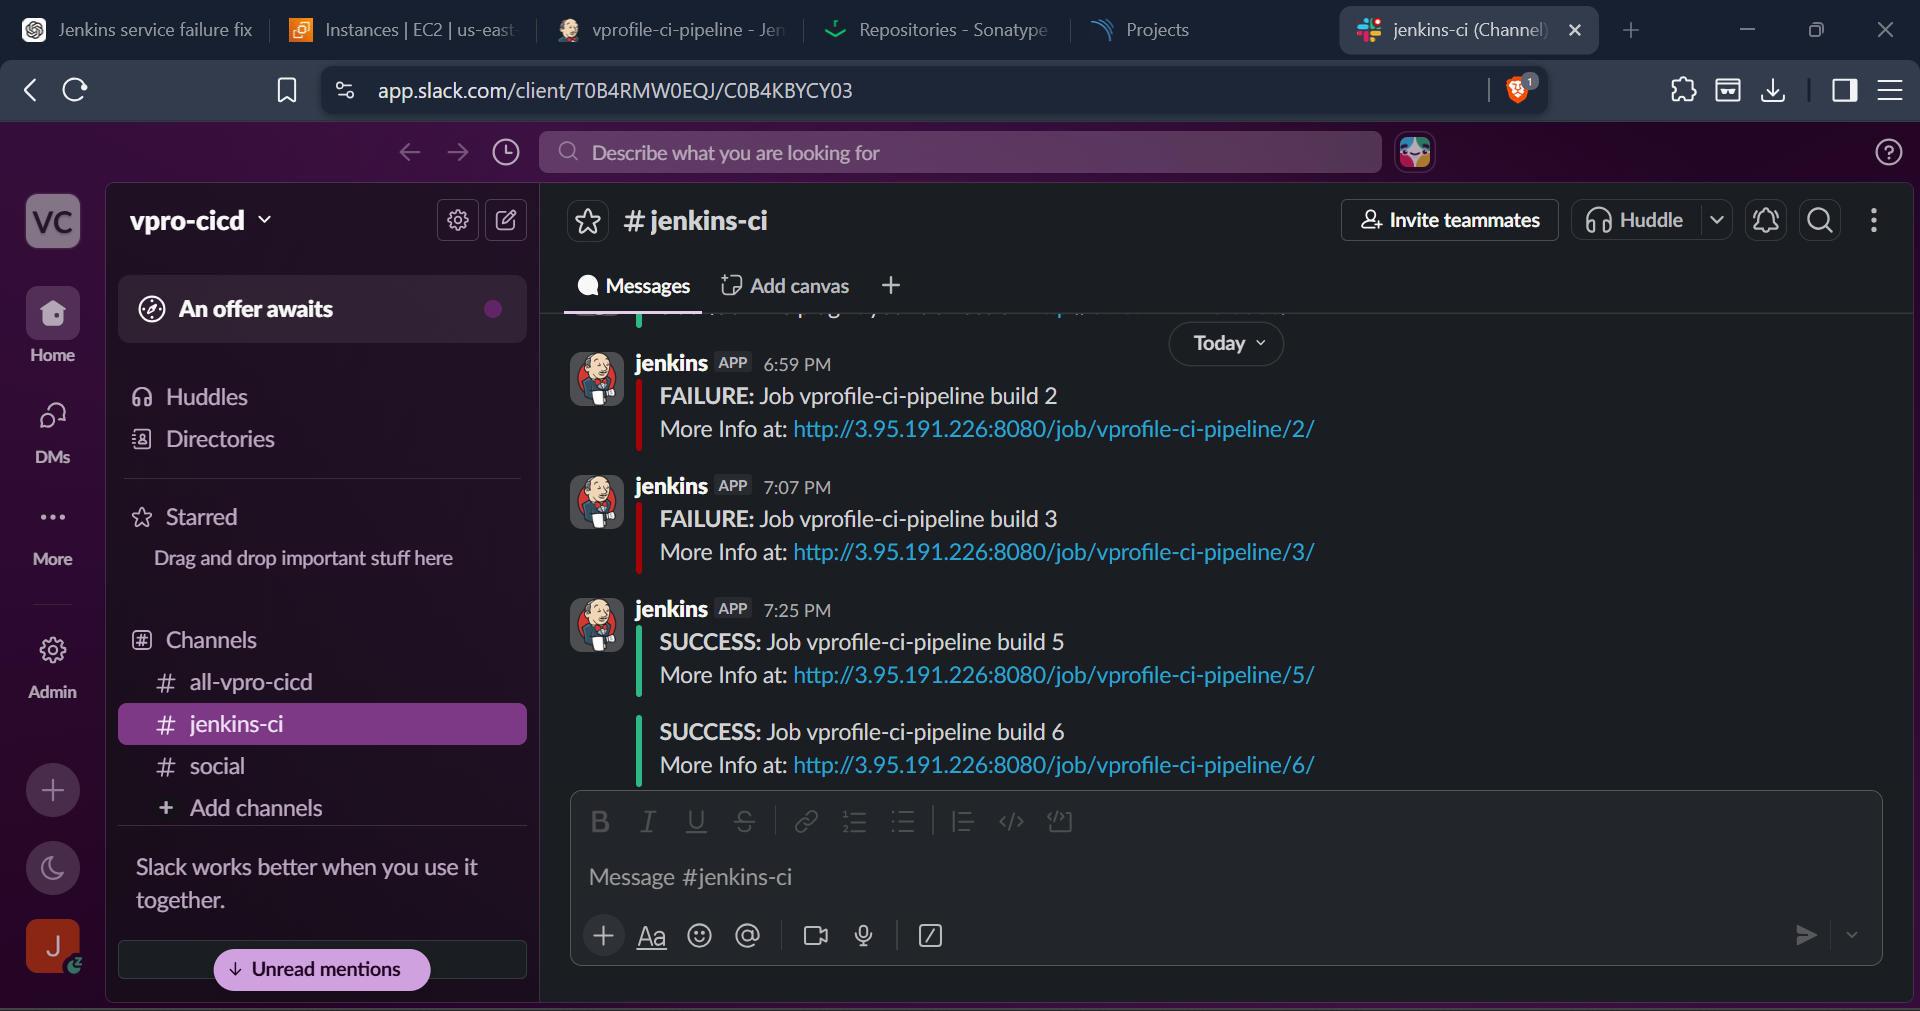
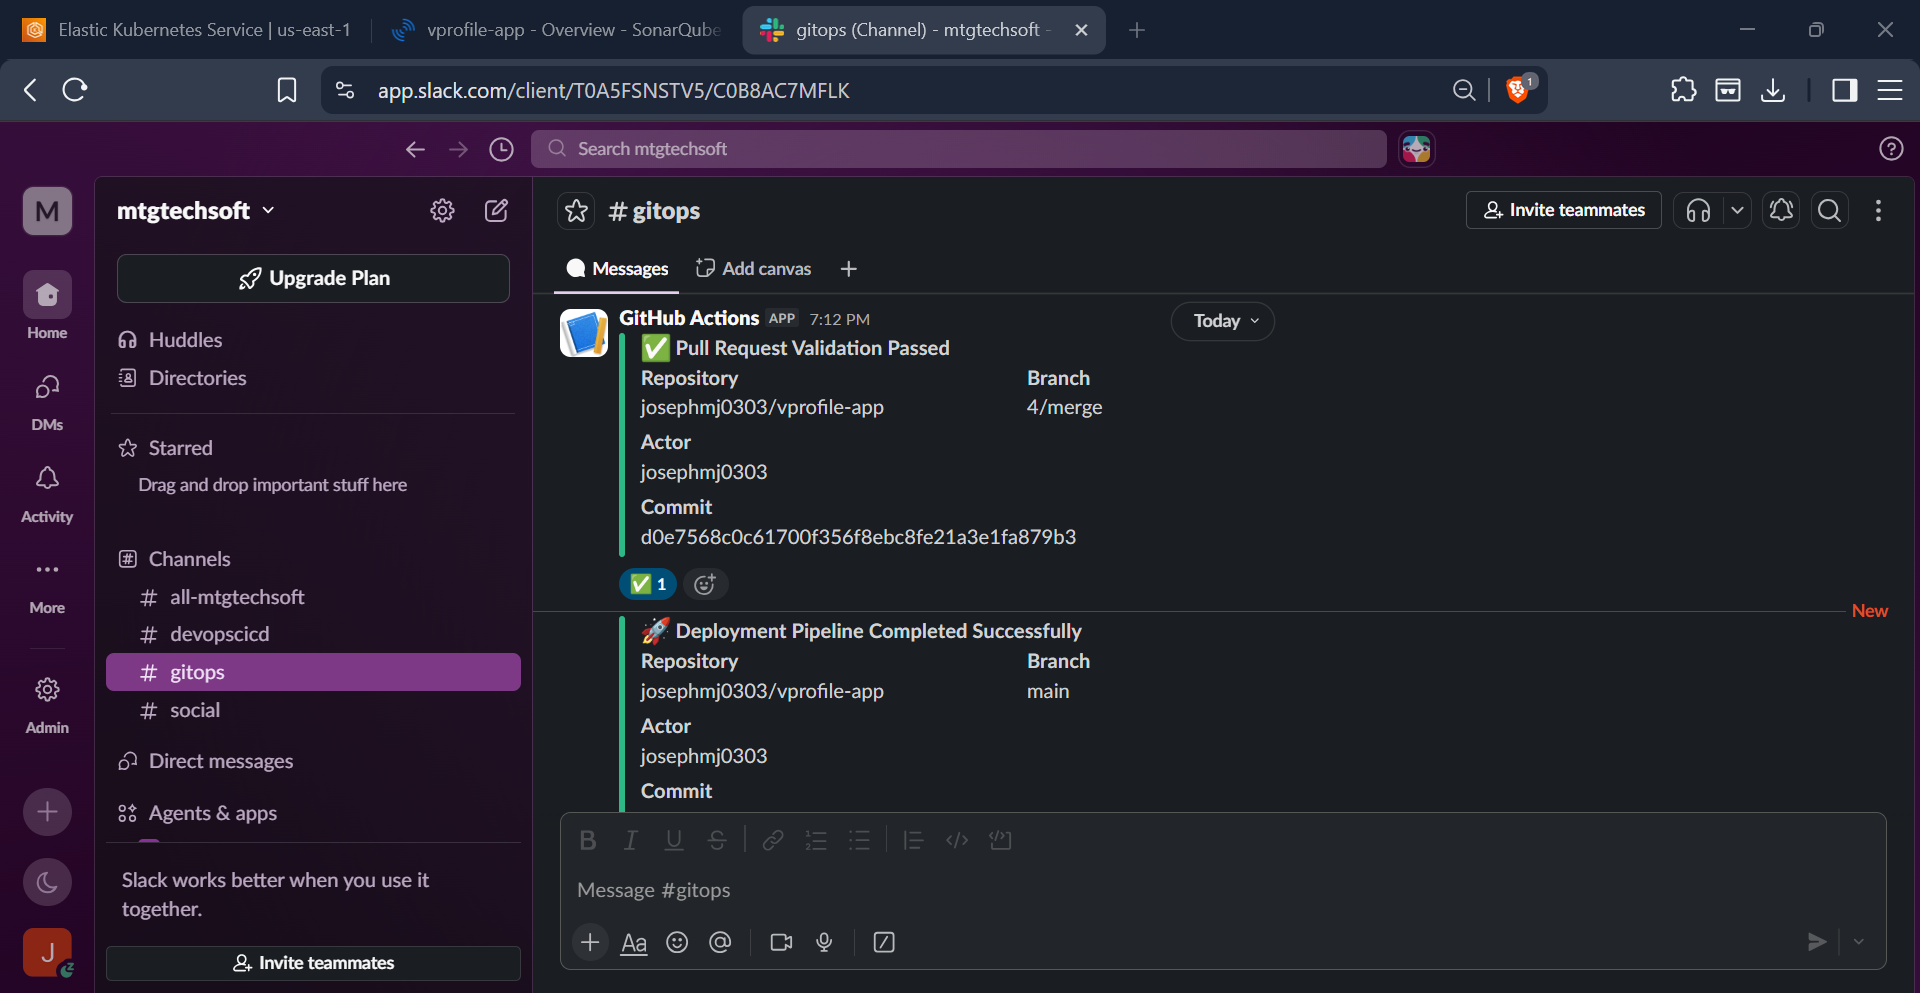
update vprofile gitops project html

diff --git a/projects/vprofile-gitops-platform.html b/projects/vprofile-gitops-platform.html
@@ -152,6 +152,41 @@
             text-decoration: none;
             font-weight: bold;
         }
+
+        /* Screenshot section */
+        .screenshot-grid {
+            display: grid;
+            grid-template-columns: repeat(2, 1fr);
+            gap: 25px;
+            margin-top: 30px;
+        }
+
+        .screenshot-item {
+            text-align: center;
+        }
+
+        .screenshot-item img {
+            width: 100%;
+            max-width: 100%;
+            height: auto;
+            border-radius: 12px;
+            border: 1px solid rgba(255,255,255,0.1);
+            display: block;
+        }
+
+        .screenshot-caption {
+            margin-top: 12px;
+            color: #d1d5db;
+            font-size: 0.95rem;
+        }
+
+        /* Mobile */
+        @media (max-width: 768px) {
+            .screenshot-grid {
+                grid-template-columns: 1fr;
+            }
+        }
+
     </style>
 </head>
 
@@ -237,6 +272,64 @@
 
 </div>
 
+</section>
+
+<section class="project-section">
+    <h2>Screenshots</h2>
+
+<div class="screenshot-grid">
+
+    <div class="screenshot-item">
+        <img src="../images/project-images/vprofile-application.png" alt="">
+        <p class="screenshot-caption">Production Application Running on EKS</p>
+    </div>
+
+    <div class="screenshot-item">
+        <img src="../images/project-images/pr-validation-pipeline.png" alt="">
+        <p class="screenshot-caption">Automated Pull Request Validation</p>
+    </div>
+
+    <div class="screenshot-item">
+        <img src="../images/project-images/deployment-pipeline.png" alt="">
+        <p class="screenshot-caption">End-to-End GitOps Deployment Pipeline</p>
+    </div>
+
+    <div class="screenshot-item">
+        <img src="../images/project-images/sonarqube-dashboard.png" alt="">
+        <p class="screenshot-caption">Continuous Code Quality Analysis</p>
+    </div>
+
+    <div class="screenshot-item">
+        <img src="../images/project-images/ecr-repo.png" alt="">
+        <p class="screenshot-caption">Versioned Container Image Registry</p>
+    </div>
+
+    <div class="screenshot-item">
+        <img src="../images/project-images/argocd-application.png" alt="">
+        <p class="screenshot-caption">GitOps Application Synchronization</p>
+    </div>
+
+    <div class="screenshot-item">
+        <img src="../images/project-images/argocd-resource-tree.png" alt="">
+        <p class="screenshot-caption">Declarative Kubernetes Resource Management</p>
+    </div>
+
+    <div class="screenshot-item">
+        <img src="../images/project-images/eks-cluster.png" alt="">
+        <p class="screenshot-caption">Managed Kubernetes Platform on AWS</p>
+    </div>
+
+    <div class="screenshot-item">
+        <img src="../images/project-images/pods-running.png" alt="">
+        <p class="screenshot-caption">Microservices Running Across Kubernetes Namespaces</p>
+    </div>
+
+    <div class="screenshot-item">
+        <img src="../images/project-images/slack-notification.png" alt="">
+        <p class="screenshot-caption">Real-Time Deployment Notifications</p>
+    </div>
+
+</div>
 </section>
 
 <section class="project-section">
